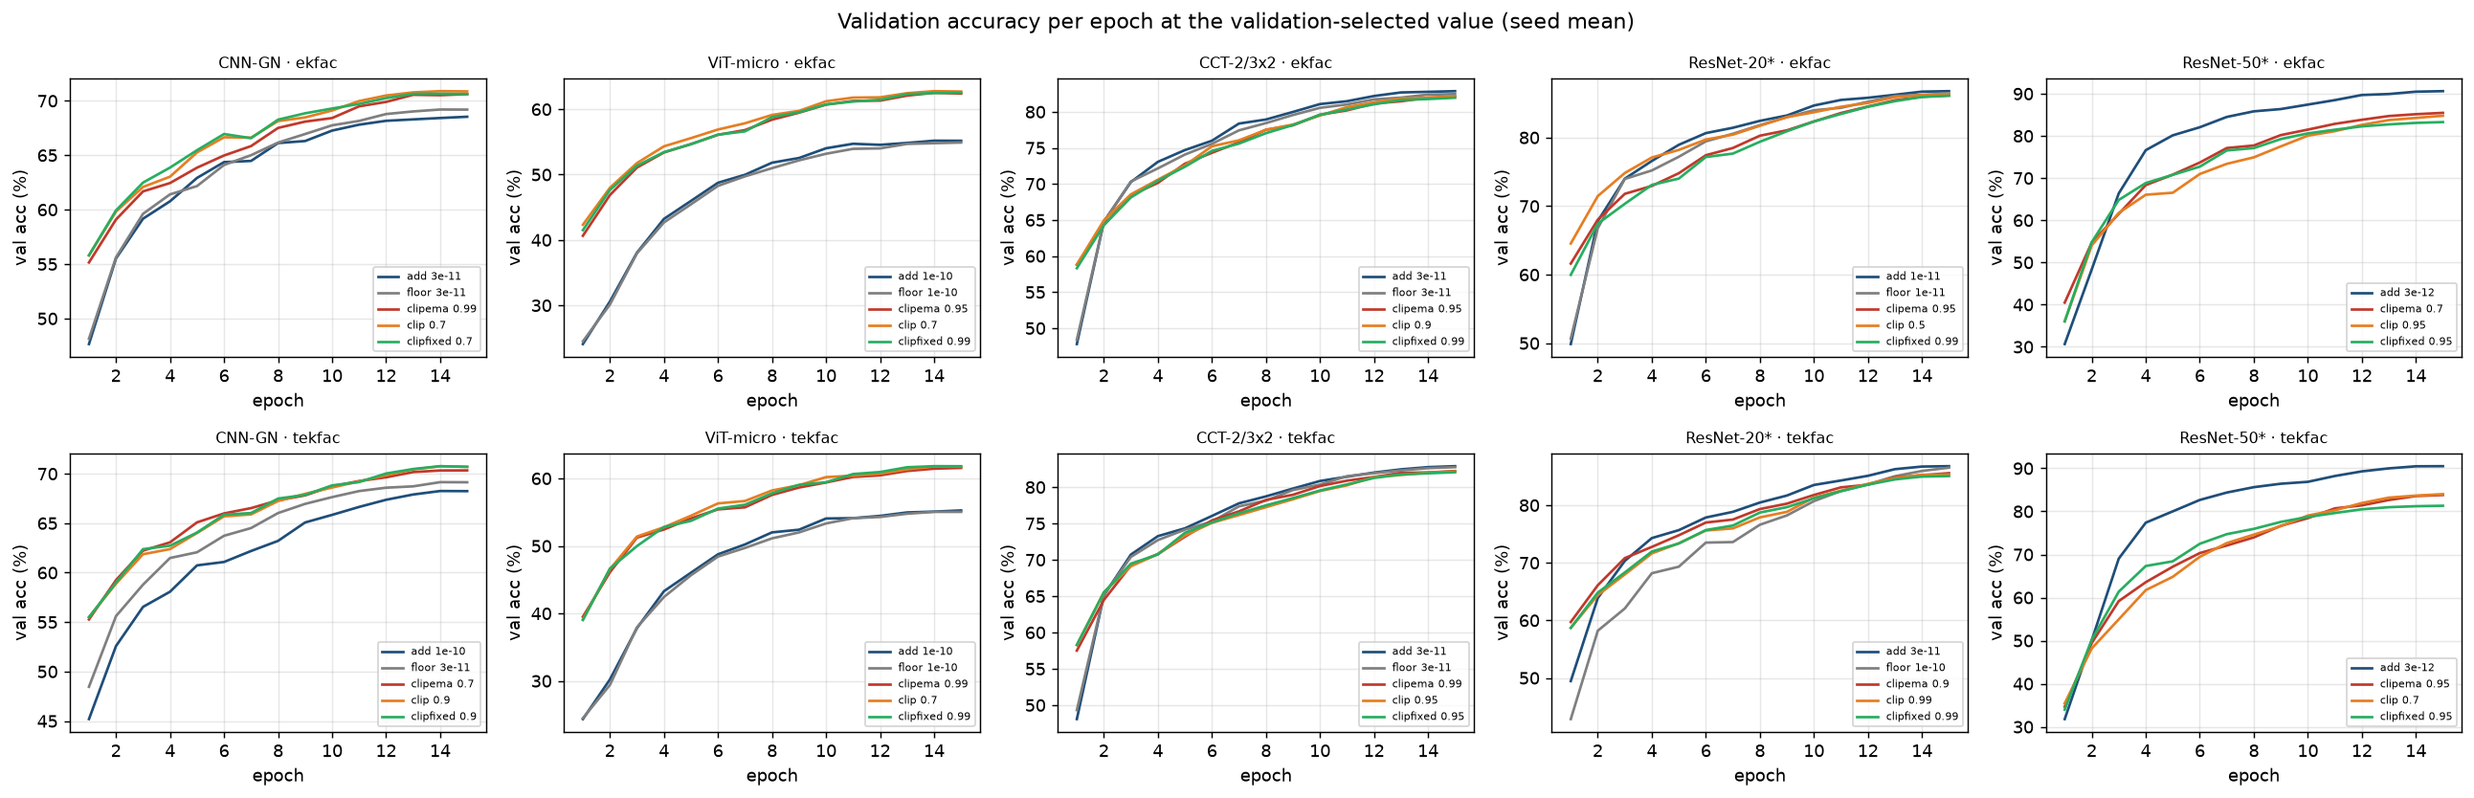
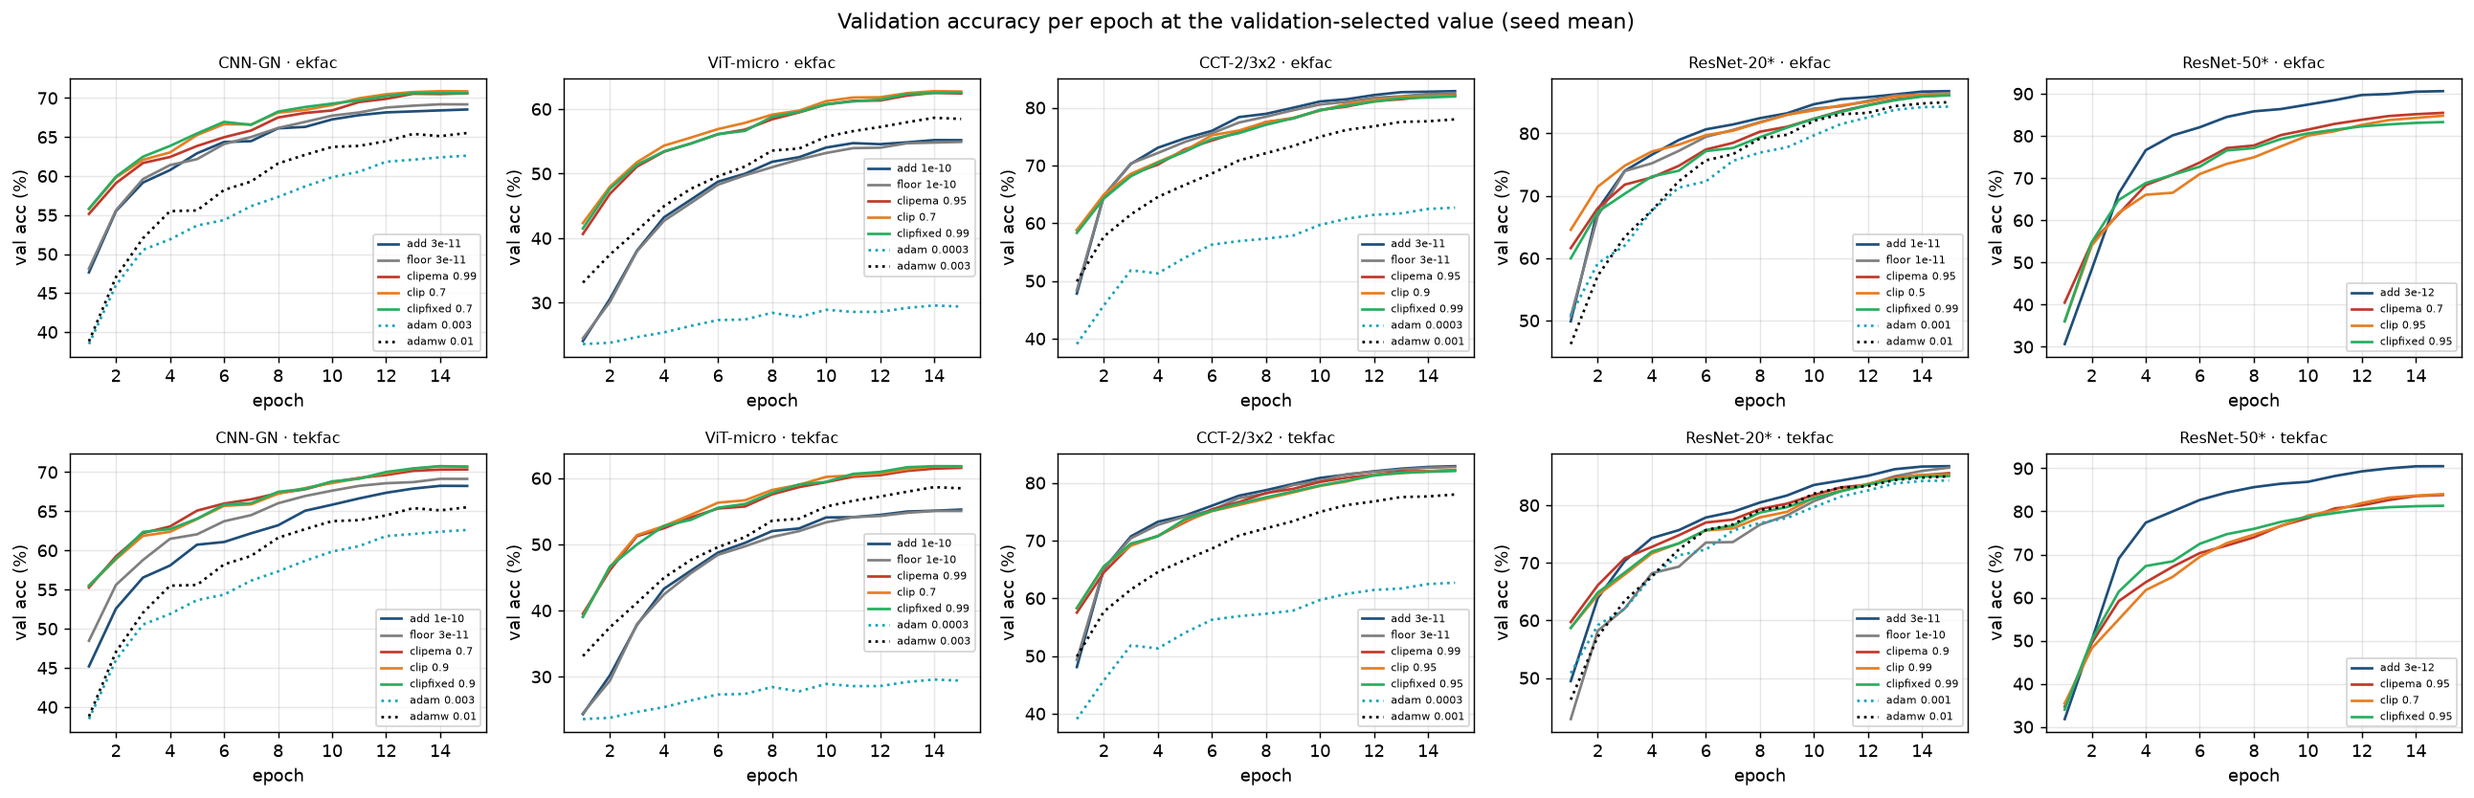
E16: the clip against the adapted lambda and against Adam/AdamW
- docs/reports/e16_vs_lambda.md (new): clipping against the shipped lambda = 1e-3 (campaigns 1-2),
  the tuned lambda (E14/E13/E10) and the per-layer lambda (E15), all under the E protocol and
  paired by seed, plus a context column naming the best mode of each experiment.
- The Adam/AdamW baselines are in every table and figure. Their lr grid was extended to x{10, 30}
  because the first one selected its top in 7 of 8 pairs: AdamW gained 1.3 to 8 points, and the
  measured gap to the Fisher arms halved. A selected lr at a grid edge is flagged; a baseline whose
  grid is not complete for at least three lr values is treated as absent (ResNet-50, still running).

diff --git a/fisher_ref/experiments/e16_report.py b/fisher_ref/experiments/e16_report.py
@@ -73,8 +73,14 @@ def load_baselines(model: str) -> Cells:
                     continue
                 for mode in MODES:
                     out.setdefault((mode, opt, float(c["lr"])), {})[seed] = c
-    # a value is kept only when every seed is there
-    return {k: v for k, v in out.items() if sorted(v) == SEEDS[model]}
+    # A value is kept only when every seed is there, and a baseline is used only when at least
+    # three of its lr values are complete: selecting over a part of the grid would read as a
+    # located optimum when the rest is still running.
+    out = {k: v for k, v in out.items() if sorted(v) == SEEDS[model]}
+    per_opt: Dict[str, int] = {}
+    for (_, opt, _) in out:
+        per_opt[opt] = per_opt.get(opt, 0) + 1
+    return {k: v for k, v in out.items() if per_opt[k[1]] >= 3 * len(MODES)}
 
 
 def baseline_choice(cells: Cells, mode: str, opt: str):

diff --git a/docs/reports/e16_results_tables.md b/docs/reports/e16_results_tables.md
@@ -1,6 +1,6 @@
 # E16 — results tables
 
-*Generated by `fisher_ref/experiments/e16_report.py` from the 46 merged files; the verdicts are `e16_decisions.py`'s. Accuracies in %, mean ± standard error over seeds (5; 3 on ResNet-50). \* = exploratory network, votes in no rule. **Bold** = the value rule 1 selects on validation.*
+*Generated by `fisher_ref/experiments/e16_report.py` from the 46 merged files; the verdicts are `e16_decisions.py`'s. Accuracies in %, mean ± standard error over seeds (5; 3 on ResNet-50). \* = exploratory network, votes in no rule. **Bold** = the value rule 1 selects on validation. `adam`/`adamw` are references run afterwards under E16's protocol (`e16_baselines.py`), lr = baseline_lr x {1/3, 1, 3}, selected the same way; they vote in no rule.*
 
 ## Paired differences at the selected values (rules 1-2)
 
@@ -10,34 +10,50 @@
 | CNN-GN | ekfac | clipema | 0.99 (add 3e-11) | +2.12 ± 0.23 | win |
 | CNN-GN | ekfac | clip | 0.7 (add 3e-11) | +1.96 ± 0.39 | win |
 | CNN-GN | ekfac | clipfixed | 0.7 (add 3e-11) | +2.18 ± 0.36 | win |
+| CNN-GN | ekfac | adam | 0.003 (add 3e-11) | -5.58 ± 0.25 | lose |
+| CNN-GN | ekfac | adamw | 0.01 (add 3e-11) | -3.04 ± 0.50 | lose |
 | CNN-GN | tekfac | floor | 3e-11 (add 1e-10) | +0.56 ± 0.40 | tie |
 | CNN-GN | tekfac | clipema | 0.7 (add 1e-10) | +1.89 ± 0.29 | win |
 | CNN-GN | tekfac | clip | 0.9 (add 1e-10) | +2.08 ± 0.24 | win |
 | CNN-GN | tekfac | clipfixed | 0.9 (add 1e-10) | +2.10 ± 0.32 | win |
+| CNN-GN | tekfac | adam | 0.003 (add 1e-10) | -5.55 ± 0.33 | lose |
+| CNN-GN | tekfac | adamw | 0.01 (add 1e-10) | -3.00 ± 0.43 | lose |
 | ViT-micro | ekfac | floor | 1e-10 (add 1e-10) | -0.41 ± 0.28 | tie |
 | ViT-micro | ekfac | clipema | 0.95 (add 1e-10) | +7.70 ± 0.32 | win |
 | ViT-micro | ekfac | clip | 0.7 (add 1e-10) | +7.69 ± 0.44 | win |
 | ViT-micro | ekfac | clipfixed | 0.99 (add 1e-10) | +7.76 ± 0.41 | win |
+| ViT-micro | ekfac | adam | 0.0003 (add 1e-10) | -25.16 ± 0.55 | lose |
+| ViT-micro | ekfac | adamw | 0.003 (add 1e-10) | +2.77 ± 0.41 | win |
 | ViT-micro | tekfac | floor | 1e-10 (add 1e-10) | -0.16 ± 0.46 | tie |
 | ViT-micro | tekfac | clipema | 0.99 (add 1e-10) | +7.00 ± 0.45 | win |
 | ViT-micro | tekfac | clip | 0.7 (add 1e-10) | +6.82 ± 0.26 | win |
 | ViT-micro | tekfac | clipfixed | 0.99 (add 1e-10) | +6.85 ± 0.27 | win |
+| ViT-micro | tekfac | adam | 0.0003 (add 1e-10) | -24.97 ± 0.72 | lose |
+| ViT-micro | tekfac | adamw | 0.003 (add 1e-10) | +2.96 ± 0.19 | win |
 | CCT-2/3x2 | ekfac | floor | 3e-11 (add 3e-11) | -0.45 ± 0.11 | lose |
 | CCT-2/3x2 | ekfac | clipema | 0.95 (add 3e-11) | -1.21 ± 0.26 | lose |
 | CCT-2/3x2 | ekfac | clip | 0.9 (add 3e-11) | -1.02 ± 0.17 | lose |
 | CCT-2/3x2 | ekfac | clipfixed | 0.99 (add 3e-11) | -1.04 ± 0.16 | lose |
+| CCT-2/3x2 | ekfac | adam | 0.0003 (add 3e-11) | -20.08 ± 0.38 | lose |
+| CCT-2/3x2 | ekfac | adamw | 0.001 (add 3e-11) | -5.08 ± 0.17 | lose |
 | CCT-2/3x2 | tekfac | floor | 3e-11 (add 3e-11) | -0.56 ± 0.12 | lose |
 | CCT-2/3x2 | tekfac | clipema | 0.99 (add 3e-11) | -0.72 ± 0.18 | lose |
 | CCT-2/3x2 | tekfac | clip | 0.95 (add 3e-11) | -0.90 ± 0.17 | lose |
 | CCT-2/3x2 | tekfac | clipfixed | 0.95 (add 3e-11) | -0.96 ± 0.14 | lose |
+| CCT-2/3x2 | tekfac | adam | 0.0003 (add 3e-11) | -20.28 ± 0.36 | lose |
+| CCT-2/3x2 | tekfac | adamw | 0.001 (add 3e-11) | -5.28 ± 0.15 | lose |
 | ResNet-20* | ekfac | floor | 1e-11 (add 1e-11) | -0.66 ± 0.19 | lose |
 | ResNet-20* | ekfac | clipema | 0.95 (add 1e-11) | -1.07 ± 0.24 | lose |
 | ResNet-20* | ekfac | clip | 0.5 (add 1e-11) | -1.13 ± 0.15 | lose |
 | ResNet-20* | ekfac | clipfixed | 0.99 (add 1e-11) | -1.16 ± 0.19 | lose |
+| ResNet-20* | ekfac | adam | 0.001 (add 1e-11) | -2.98 ± 0.25 | lose |
+| ResNet-20* | ekfac | adamw | 0.01 (add 1e-11) | -2.14 ± 0.19 | lose |
 | ResNet-20* | tekfac | floor | 1e-10 (add 3e-11) | -0.35 ± 0.15 | lose |
 | ResNet-20* | tekfac | clipema | 0.9 (add 3e-11) | -1.50 ± 0.17 | lose |
 | ResNet-20* | tekfac | clip | 0.99 (add 3e-11) | -1.63 ± 0.20 | lose |
 | ResNet-20* | tekfac | clipfixed | 0.99 (add 3e-11) | -1.73 ± 0.20 | lose |
+| ResNet-20* | tekfac | adam | 0.001 (add 3e-11) | -2.74 ± 0.13 | lose |
+| ResNet-20* | tekfac | adamw | 0.01 (add 3e-11) | -1.90 ± 0.27 | lose |
 | ResNet-50* | ekfac | clipema | 0.7 (add 3e-12) | -5.37 ± 0.24 | lose |
 | ResNet-50* | ekfac | clip | 0.95 (add 3e-12) | -5.91 ± 0.21 | lose |
 | ResNet-50* | ekfac | clipfixed | 0.95 (add 3e-12) | -7.63 ± 0.21 | lose |
@@ -85,6 +101,16 @@
 | cliplr | 3 | 69.87 ± 0.23 | 70.29 ± 0.34 | 5 | 1.9 |
 | cliplr | 0.333333 | 67.73 ± 0.39 | 67.92 ± 0.54 | 5 | 1.9 |
 | cliplr | 0.1 | 61.51 ± 0.32 | 61.46 ± 0.19 | 5 | 1.9 |
+| adam | 0.03 | 29.04 ± 5.22 | 28.66 ± 5.27 | 5 | 0.8 |
+| adam | 0.01 | 55.59 ± 0.56 | 55.66 ± 0.51 | 5 | 0.8 |
+| adam | **0.003** | 62.65 ± 0.25 | 62.62 ± 0.37 | 5 | 0.8 |
+| adam | 0.001 | 61.10 ± 0.36 | 61.05 ± 0.45 | 5 | 0.8 |
+| adam | 0.000333333 | 56.20 ± 0.31 | 55.70 ± 0.17 | 5 | 0.8 |
+| adamw | 0.03 | 53.69 ± 1.20 | 53.84 ± 1.32 | 5 | 0.8 |
+| adamw | **0.01** | 65.19 ± 0.37 | 65.52 ± 0.38 | 5 | 0.8 |
+| adamw | 0.003 | 63.92 ± 0.20 | 64.17 ± 0.29 | 5 | 0.8 |
+| adamw | 0.001 | 61.16 ± 0.17 | 61.20 ± 0.23 | 5 | 0.8 |
+| adamw | 0.000333333 | 56.31 ± 0.31 | 56.03 ± 0.21 | 5 | 0.8 |
 
 **tekfac**
 
@@ -124,6 +150,16 @@
 | cliplr | 3 | 69.50 ± 0.37 | 70.00 ± 0.24 | 5 | 1.9 |
 | cliplr | 0.333333 | 67.65 ± 0.18 | 68.29 ± 0.28 | 5 | 1.9 |
 | cliplr | 0.1 | 61.28 ± 0.48 | 61.05 ± 0.27 | 5 | 1.9 |
+| adam | 0.03 | 29.04 ± 5.22 | 28.66 ± 5.27 | 5 | 0.8 |
+| adam | 0.01 | 55.59 ± 0.56 | 55.66 ± 0.51 | 5 | 0.8 |
+| adam | **0.003** | 62.65 ± 0.25 | 62.62 ± 0.37 | 5 | 0.8 |
+| adam | 0.001 | 61.10 ± 0.36 | 61.05 ± 0.45 | 5 | 0.8 |
+| adam | 0.000333333 | 56.20 ± 0.31 | 55.70 ± 0.17 | 5 | 0.8 |
+| adamw | 0.03 | 53.69 ± 1.20 | 53.84 ± 1.32 | 5 | 0.8 |
+| adamw | **0.01** | 65.19 ± 0.37 | 65.52 ± 0.38 | 5 | 0.8 |
+| adamw | 0.003 | 63.92 ± 0.20 | 64.17 ± 0.29 | 5 | 0.8 |
+| adamw | 0.001 | 61.16 ± 0.17 | 61.20 ± 0.23 | 5 | 0.8 |
+| adamw | 0.000333333 | 56.31 ± 0.31 | 56.03 ± 0.21 | 5 | 0.8 |
 
 
 ## ViT-micro (`vit_micro_cifar`), every cell
@@ -166,6 +202,16 @@
 | cliplr | 3 | 59.10 ± 0.27 | 59.05 ± 0.48 | 5 | 5.2 |
 | cliplr | 0.333333 | 60.11 ± 0.16 | 60.00 ± 0.09 | 5 | 5.3 |
 | cliplr | 0.1 | 53.56 ± 0.31 | 53.68 ± 0.41 | 5 | 5.2 |
+| adam | 0.003 | 28.40 ± 0.23 | 27.86 ± 0.36 | 5 | 1.3 |
+| adam | 0.001 | 29.45 ± 0.12 | 28.96 ± 0.14 | 5 | 1.3 |
+| adam | **0.0003** | 30.03 ± 0.70 | 29.41 ± 0.75 | 5 | 1.3 |
+| adam | 0.0001 | 26.61 ± 0.22 | 26.50 ± 0.20 | 5 | 1.3 |
+| adam | 3.33333e-05 | 23.91 ± 0.17 | 23.72 ± 0.24 | 5 | 1.3 |
+| adamw | **0.003** | 57.96 ± 0.29 | 58.47 ± 0.43 | 5 | 1.2 |
+| adamw | 0.001 | 56.36 ± 0.44 | 56.60 ± 0.52 | 5 | 1.2 |
+| adamw | 0.0003 | 49.94 ± 0.43 | 49.38 ± 0.52 | 5 | 1.3 |
+| adamw | 0.0001 | 36.64 ± 0.26 | 35.72 ± 0.31 | 5 | 1.3 |
+| adamw | 3.33333e-05 | 27.59 ± 0.39 | 26.86 ± 0.50 | 5 | 1.3 |
 
 **tekfac**
 
@@ -205,6 +251,16 @@
 | cliplr | 3 | 60.15 ± 0.26 | 59.79 ± 0.35 | 5 | 5.4 |
 | cliplr | 0.333333 | 59.60 ± 0.10 | 59.02 ± 0.31 | 5 | 5.2 |
 | cliplr | 0.1 | 52.60 ± 0.29 | 52.75 ± 0.29 | 5 | 5.2 |
+| adam | 0.003 | 28.40 ± 0.23 | 27.86 ± 0.36 | 5 | 1.3 |
+| adam | 0.001 | 29.45 ± 0.12 | 28.96 ± 0.14 | 5 | 1.3 |
+| adam | **0.0003** | 30.03 ± 0.70 | 29.41 ± 0.75 | 5 | 1.3 |
+| adam | 0.0001 | 26.61 ± 0.22 | 26.50 ± 0.20 | 5 | 1.3 |
+| adam | 3.33333e-05 | 23.91 ± 0.17 | 23.72 ± 0.24 | 5 | 1.3 |
+| adamw | **0.003** | 57.96 ± 0.29 | 58.47 ± 0.43 | 5 | 1.2 |
+| adamw | 0.001 | 56.36 ± 0.44 | 56.60 ± 0.52 | 5 | 1.2 |
+| adamw | 0.0003 | 49.94 ± 0.43 | 49.38 ± 0.52 | 5 | 1.3 |
+| adamw | 0.0001 | 36.64 ± 0.26 | 35.72 ± 0.31 | 5 | 1.3 |
+| adamw | 3.33333e-05 | 27.59 ± 0.39 | 26.86 ± 0.50 | 5 | 1.3 |
 
 
 ## CCT-2/3x2 (`cct_2_3x2_cifar`), every cell
@@ -247,6 +303,16 @@
 | cliplr | 3 | 72.42 ± 0.52 | 72.46 ± 0.34 | 5 | 6.4 |
 | cliplr | 0.333333 | 82.67 ± 0.11 | 82.60 ± 0.30 | 5 | 6.3 |
 | cliplr | 0.1 | 77.37 ± 0.28 | 77.70 ± 0.32 | 5 | 6.4 |
+| adam | 0.003 | 51.40 ± 0.15 | 51.70 ± 0.28 | 5 | 1.8 |
+| adam | 0.001 | 57.83 ± 0.19 | 58.46 ± 0.27 | 5 | 1.8 |
+| adam | **0.0003** | 62.69 ± 0.26 | 62.69 ± 0.40 | 5 | 1.8 |
+| adam | 0.0001 | 60.36 ± 0.62 | 60.52 ± 0.64 | 5 | 1.8 |
+| adam | 3.33333e-05 | 45.42 ± 0.28 | 44.92 ± 0.50 | 5 | 1.8 |
+| adamw | 0.003 | 75.22 ± 0.07 | 75.51 ± 0.28 | 5 | 1.8 |
+| adamw | **0.001** | 77.69 ± 0.08 | 77.98 ± 0.37 | 5 | 1.8 |
+| adamw | 0.0003 | 74.37 ± 0.20 | 74.60 ± 0.36 | 5 | 1.8 |
+| adamw | 0.0001 | 66.43 ± 0.13 | 66.80 ± 0.18 | 5 | 1.8 |
+| adamw | 3.33333e-05 | 53.60 ± 0.32 | 53.69 ± 0.32 | 5 | 1.8 |
 
 **tekfac**
 
@@ -286,6 +352,16 @@
 | cliplr | 3 | 73.86 ± 0.53 | 73.92 ± 0.46 | 5 | 6.4 |
 | cliplr | 0.333333 | 82.56 ± 0.11 | 82.46 ± 0.16 | 5 | 6.5 |
 | cliplr | 0.1 | 77.48 ± 0.18 | 77.62 ± 0.17 | 5 | 6.3 |
+| adam | 0.003 | 51.40 ± 0.15 | 51.70 ± 0.28 | 5 | 1.8 |
+| adam | 0.001 | 57.83 ± 0.19 | 58.46 ± 0.27 | 5 | 1.8 |
+| adam | **0.0003** | 62.69 ± 0.26 | 62.69 ± 0.40 | 5 | 1.8 |
+| adam | 0.0001 | 60.36 ± 0.62 | 60.52 ± 0.64 | 5 | 1.8 |
+| adam | 3.33333e-05 | 45.42 ± 0.28 | 44.92 ± 0.50 | 5 | 1.8 |
+| adamw | 0.003 | 75.22 ± 0.07 | 75.51 ± 0.28 | 5 | 1.8 |
+| adamw | **0.001** | 77.69 ± 0.08 | 77.98 ± 0.37 | 5 | 1.8 |
+| adamw | 0.0003 | 74.37 ± 0.20 | 74.60 ± 0.36 | 5 | 1.8 |
+| adamw | 0.0001 | 66.43 ± 0.13 | 66.80 ± 0.18 | 5 | 1.8 |
+| adamw | 3.33333e-05 | 53.60 ± 0.32 | 53.69 ± 0.32 | 5 | 1.8 |
 
 
 ## ResNet-20* (`resnet20_cifar`), every cell
@@ -328,6 +404,16 @@
 | cliplr | 3 | 79.35 ± 0.47 | 79.42 ± 0.68 | 5 | 12.6 |
 | cliplr | 0.333333 | 86.61 ± 0.10 | 86.54 ± 0.20 | 5 | 12.7 |
 | cliplr | 0.1 | 80.11 ± 0.22 | 80.54 ± 0.19 | 5 | 12.6 |
+| adam | 0.03 | 47.99 ± 1.67 | 47.52 ± 1.72 | 5 | 2.8 |
+| adam | 0.01 | 65.81 ± 0.55 | 66.18 ± 0.63 | 5 | 2.8 |
+| adam | 0.003 | 81.15 ± 0.25 | 81.40 ± 0.45 | 5 | 2.7 |
+| adam | **0.001** | 83.86 ± 0.16 | 84.29 ± 0.10 | 5 | 2.7 |
+| adam | 0.000333333 | 79.40 ± 0.34 | 79.65 ± 0.35 | 5 | 2.7 |
+| adamw | 0.03 | 79.45 ± 0.80 | 79.76 ± 0.86 | 5 | 2.7 |
+| adamw | **0.01** | 84.70 ± 0.27 | 85.01 ± 0.38 | 5 | 2.7 |
+| adamw | 0.003 | 84.20 ± 0.32 | 84.38 ± 0.34 | 5 | 2.7 |
+| adamw | 0.001 | 82.78 ± 0.17 | 83.24 ± 0.40 | 5 | 2.7 |
+| adamw | 0.000333333 | 78.15 ± 0.33 | 78.32 ± 0.28 | 5 | 2.7 |
 
 **tekfac**
 
@@ -367,6 +453,16 @@
 | cliplr | 3 | 78.11 ± 0.31 | 78.15 ± 0.31 | 5 | 12.7 |
 | cliplr | 0.333333 | 85.73 ± 0.17 | 86.20 ± 0.25 | 5 | 12.6 |
 | cliplr | 0.1 | 79.79 ± 0.27 | 80.10 ± 0.06 | 5 | 12.7 |
+| adam | 0.03 | 47.99 ± 1.67 | 47.52 ± 1.72 | 5 | 2.8 |
+| adam | 0.01 | 65.81 ± 0.55 | 66.18 ± 0.63 | 5 | 2.8 |
+| adam | 0.003 | 81.15 ± 0.25 | 81.40 ± 0.45 | 5 | 2.7 |
+| adam | **0.001** | 83.86 ± 0.16 | 84.29 ± 0.10 | 5 | 2.7 |
+| adam | 0.000333333 | 79.40 ± 0.34 | 79.65 ± 0.35 | 5 | 2.7 |
+| adamw | 0.03 | 79.45 ± 0.80 | 79.76 ± 0.86 | 5 | 2.7 |
+| adamw | **0.01** | 84.70 ± 0.27 | 85.01 ± 0.38 | 5 | 2.7 |
+| adamw | 0.003 | 84.20 ± 0.32 | 84.38 ± 0.34 | 5 | 2.7 |
+| adamw | 0.001 | 82.78 ± 0.17 | 83.24 ± 0.40 | 5 | 2.7 |
+| adamw | 0.000333333 | 78.15 ± 0.33 | 78.32 ± 0.28 | 5 | 2.7 |
 
 
 ## ResNet-50* (`resnet50_cifar`), every cell

diff --git a/docs/reports/e16_vs_lambda.md b/docs/reports/e16_vs_lambda.md
@@ -1,0 +1,24 @@
+# E16 — does the clip pay off? Clipping against the adapted lambda
+
+*Generated by `fisher_ref/experiments/e16_report.py`. Test accuracy (%), mean ± standard error over seeds, all under the **E protocol** (batch 32, 15 epochs, clamped cosine, `eig_before_rescale`): 5 seeds, 3 on ResNet-20's shipped/E14 cells and on ResNet-50. Every run of a (network, seed) shares its initialisation and data order, so the differences are paired by seed; **win/lose** at 2 SE, otherwise tie. Each arm is at the value it selects on validation. The last column is context from another protocol and is not comparable number for number.*
+
+Columns:
+- **shipped λ = 1e-3**: the damping campaigns 1 and 2 ran with (E14/E13/E10's reference cells; shipped normalisation statistic).
+- **tuned λ (E14 fix)**: one λ per network, E16's `add` arm (with `norm_exact_rescaling`).
+- **per-layer λ (E15)**: `damping="layer_relative"`, τ selected on validation; run on CNN-GN and ViT-micro only.
+- **clip**: `clipema` (E16's main arm) at its selected q; in brackets, the range over the three clip arms (`clip`, `clipema`, `clipfixed`) at their own selected q.
+- **Adam / AdamW**: E16's baselines (`e16_baselines.py`), lr = benchmark `baseline_lr` x {1/3, 1, 3}, selected on validation. **grid edge** = the selected lr is the grid's end: the optimum was not located, so the baseline is a lower bound on what Adam(W) reaches.
+- **context**, one cell per network: (1) campaigns 1-2, benchmark protocol (batch 128, 30-50 epochs, wall-clock budget, λ = 1e-3): the best of the five modes by mean test accuracy, its gap to the better of adam/adamw, the modes above Adam(W) on every seed, and every mode's mean; (2) E14/E13/E10 (+E11's kfac on CCT), E protocol, one tuned λ per mode: the mode best on validation, every mode's test mean at its own λ, and that mode against E16's best Adam(W) baseline, paired by seed; (3) the same for E15's per-layer λ (CNN-GN, ViT-micro). E14/E15 ran no Adam/AdamW arm; the comparison uses E16's baselines, same protocol and seeds. E14/E15 used the shipped normalisation statistic.
+
+| network | mode | shipped λ=1e-3 | tuned λ (E14) | per-layer λ (E15) | clip (3 arms) | Adam | AdamW | clip − shipped | clip − tuned λ | clip − per-layer λ | clip − best Adam(W) | campaigns 1-2 (context) |
+|---|---|---|---|---|---|---|---|---|---|---|---|---|
+| CNN-GN | ekfac | 61.60 ± 0.36 | 68.23 ± 0.25 (λ=3e-11) | 70.20 ± 0.32 (τ=0.1) | 70.35 ± 0.32 (q=0.99) [70.19–70.41] | 62.65 ± 0.25 (lr=0.003) | 65.19 ± 0.37 (lr=0.01) | +8.75 ± 0.64 **win** | +2.12 ± 0.23 **win** | +0.15 ± 0.49 **tie** | +5.16 ± 0.43 **win** | **campaigns 1-2** (benchmark protocol, λ=1e-3, 4 seeds): best mode **kfac** 64.6 vs best Adam(W) 61.3: +3.3 ± 0.9; modes above Adam(W) on every seed: kfac, diag, ekfac, tkfac, tekfac (kfac 64.6, diag 64.3, ekfac 63.9, tkfac 63.7, tekfac 63.3)<br>**E14 (tuned λ, E protocol)**: best mode **ekfac** (λ=3e-11); all: ekfac 68.2, tekfac 68.2, kfac 65.5, tkfac 63.0; ekfac − best Adam(W): +3.04 ± 0.50 **win**<br>**E15 (per-layer λ, E protocol)**: best mode **ekfac** (τ=0.1); all: ekfac 70.2, tekfac 70.1, kfac 69.6; ekfac − best Adam(W): +5.01 ± 0.66 **win** |
+| CNN-GN | tekfac | 61.30 ± 0.34 | 68.20 ± 0.23 (λ=1e-10) | 70.06 ± 0.27 (τ=0.1) | 70.09 ± 0.10 (q=0.7) [70.09–70.29] | 62.65 ± 0.25 (lr=0.003) | 65.19 ± 0.37 (lr=0.01) | +8.79 ± 0.30 **win** | +1.89 ± 0.29 **win** | +0.03 ± 0.25 **tie** | +4.89 ± 0.44 **win** | 〃 |
+| ViT-micro | ekfac | 46.20 ± 0.40 | 55.18 ± 0.19 (λ=1e-10) | 60.95 ± 0.16 (τ=0.1) | 62.89 ± 0.25 (q=0.95) [62.88–62.95] | 30.03 ± 0.70 (lr=0.0003) | 57.96 ± 0.29 (lr=0.003, **grid edge**) | +16.68 ± 0.19 **win** | +7.70 ± 0.32 **win** | +1.94 ± 0.39 **win** | +4.93 ± 0.15 **win** | **campaigns 1-2** (benchmark protocol, λ=1e-3, 4 seeds): best mode **diag** 49.8 vs best Adam(W) 36.5: +13.4 ± 0.9; modes above Adam(W) on every seed: diag, kfac, tkfac, tekfac, ekfac (diag 49.8, kfac 49.3, tkfac 49.3, tekfac 48.6, ekfac 48.0)<br>**E14 (tuned λ, E protocol)**: best mode **ekfac** (λ=1e-10); all: ekfac 55.2, tekfac 55.0, kfac 53.0, tkfac 50.3; ekfac − best Adam(W): -2.72 ± 0.52 **lose**<br>**E15 (per-layer λ, E protocol)**: best mode **ekfac** (τ=0.1); all: ekfac 61.0, tekfac 60.8, kfac 57.3; ekfac − best Adam(W): +2.99 ± 0.42 **win** |
+| ViT-micro | tekfac | 46.23 ± 0.42 | 55.00 ± 0.27 (λ=1e-10) | 60.76 ± 0.30 (τ=0.1) | 62.00 ± 0.22 (q=0.99) [61.82–62.00] | 30.03 ± 0.70 (lr=0.0003) | 57.96 ± 0.29 (lr=0.003, **grid edge**) | +15.77 ± 0.53 **win** | +7.00 ± 0.45 **win** | +1.24 ± 0.32 **win** | +4.04 ± 0.42 **win** | 〃 |
+| CCT-2/3x2 | ekfac | 72.93 ± 0.16 | 82.77 ± 0.14 (λ=3e-11) | — | 81.57 ± 0.27 (q=0.95) [81.57–81.75] | 62.69 ± 0.26 (lr=0.0003) | 77.69 ± 0.08 (lr=0.001) | +8.63 ± 0.33 **win** | -1.21 ± 0.26 **lose** | — | +3.87 ± 0.31 **win** | **campaigns 1-2** (benchmark protocol, λ=1e-3, 2 seeds): best mode **kfac** 80.8 vs best Adam(W) 69.8: +11.0 ± 0.1; modes above Adam(W) on every seed: kfac, tkfac, diag, ekfac, tekfac (kfac 80.8, tkfac 80.7, diag 80.3, ekfac 80.3, tekfac 80.1)<br>**E14 (tuned λ, E protocol)**: best mode **ekfac** (λ=3e-11); all: ekfac 82.8, tekfac 82.9, kfac 80.4; ekfac − best Adam(W): +5.15 ± 0.17 **win** |
+| CCT-2/3x2 | tekfac | 72.90 ± 0.12 | 82.97 ± 0.13 (λ=3e-11) | — | 82.25 ± 0.13 (q=0.99) [82.01–82.25] | 62.69 ± 0.26 (lr=0.0003) | 77.69 ± 0.08 (lr=0.001) | +9.35 ± 0.17 **win** | -0.72 ± 0.18 **lose** | — | +4.56 ± 0.14 **win** | 〃 |
+| ResNet-20* | ekfac | 86.27 ± 0.06 | 86.84 ± 0.13 (λ=1e-11) | — | 85.77 ± 0.21 (q=0.95) [85.68–85.77] | 83.86 ± 0.16 (lr=0.001) | 84.70 ± 0.27 (lr=0.01) | -0.36 ± 0.36 **tie** (3 seeds) | -1.07 ± 0.24 **lose** | — | +1.07 ± 0.26 **win** | **campaigns 1-2** (benchmark protocol, λ=1e-3, 2 seeds): best mode **tkfac** 91.0 vs best Adam(W) 88.3: +2.7 ± 0.4; modes above Adam(W) on every seed: tkfac, kfac, diag, ekfac, tekfac (tkfac 91.0, kfac 90.9, diag 90.9, ekfac 89.7, tekfac 89.7)<br>**E14 (tuned λ, E protocol)**: best mode **kfac** (λ=1e-09); all: kfac 86.5, ekfac 86.8, tkfac 86.4, tekfac 87.0; kfac − best Adam(W): +1.64 ± 0.19 **win** (3 seeds) |
+| ResNet-20* | tekfac | 86.36 ± 0.13 | 86.60 ± 0.11 (λ=3e-11) | — | 85.10 ± 0.07 (q=0.9) [84.87–85.10] | 83.86 ± 0.16 (lr=0.001) | 84.70 ± 0.27 (lr=0.01) | -1.28 ± 0.09 **lose** (3 seeds) | -1.50 ± 0.17 **lose** | — | +0.40 ± 0.31 **tie** | 〃 |
+| ResNet-50* | ekfac | — | 90.46 ± 0.06 (λ=3e-12) | — | 85.09 ± 0.19 (q=0.7) [82.83–85.09] | — | — | — | -5.37 ± 0.24 **lose** (3 seeds) | — | — | **campaigns 1-2** (benchmark protocol, λ=1e-3, 1 seed): best mode **kfac** 94.3 vs best Adam(W) 93.0: +1.3; modes above Adam(W) on every seed: kfac, tkfac, diag, ekfac, tekfac (kfac 94.3, tkfac 94.1, diag 93.9, ekfac 93.9, tekfac 93.8) |
+| ResNet-50* | tekfac | — | 90.62 ± 0.15 (λ=3e-12) | — | 83.96 ± 0.30 (q=0.95) [80.70–83.96] | — | — | — | -6.65 ± 0.15 **lose** (3 seeds) | — | — | 〃 |

diff --git a/docs/reports/e16_results.md b/docs/reports/e16_results.md
@@ -39,6 +39,16 @@ figures come from `fisher_ref/experiments/e16_report.py`; every cell is listed i
   networks. On ResNet-20 the loss is −1.1 to −1.7 points (5 seeds). On ResNet-50 it is −5.4 to
   −9.9 points (3 seeds), largest for `clipfixed`. The floor loses on ResNet-20 as well (−0.35 to
   −0.66).
+- **Against Adam/AdamW at the same protocol** (`e16_baselines.py`, lr = benchmark `baseline_lr` x
+  {1/3, 1, 3, 10, 30}, selected on validation, 5 seeds): the clip beats the better baseline on
+  every network it was run on, by **+5.2 / +4.9** (CNN-GN), **+4.9 / +4.0** (ViT-micro),
+  **+3.9 / +4.6** (CCT) and **+1.1 / +0.4** (ResNet-20, the second a tie). The comparison with the
+  tuned λ and the per-layer λ is in [`e16_vs_lambda.md`](e16_vs_lambda.md), where the one loss
+  against AdamW is E14's tuned λ on ViT-micro (−2.7). Two things to keep in mind: the benchmark's
+  `baseline_lr` was tuned at batch 128 and is 10-30x too small here, so the first grid understated
+  AdamW by 1.3 to 8 points; and AdamW on ViT-micro is still at the top of the extended grid
+  (58.0 % at x30, rising by 1.6 over x10), so its number there is a lower bound. ResNet-50's
+  baselines are still running.
 - **For E17:** no clip and no floor qualify as a candidate. The `add` candidate is the geometric
   mean of the six selected `λ`, 5.5e-11.
 
